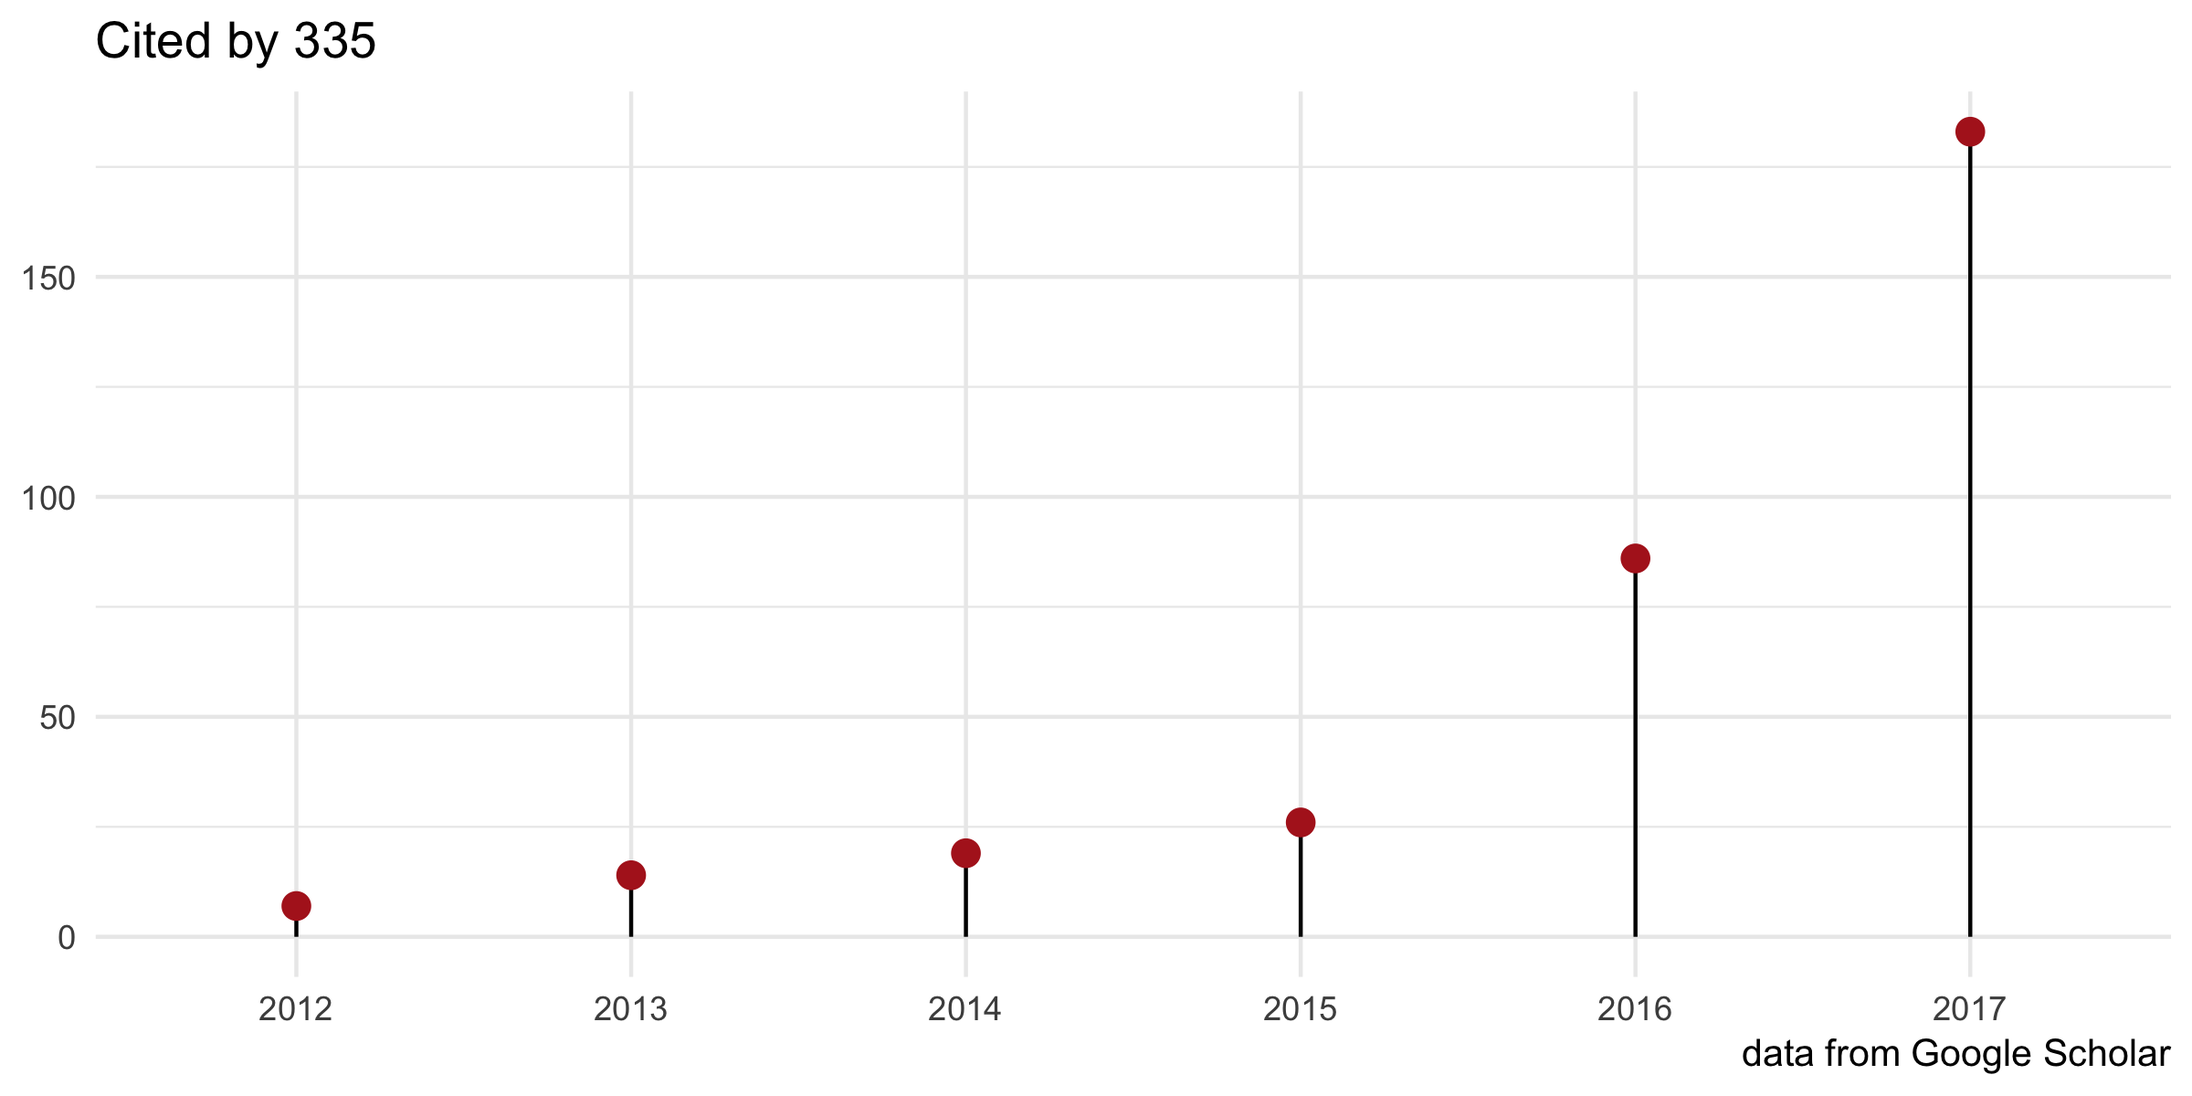
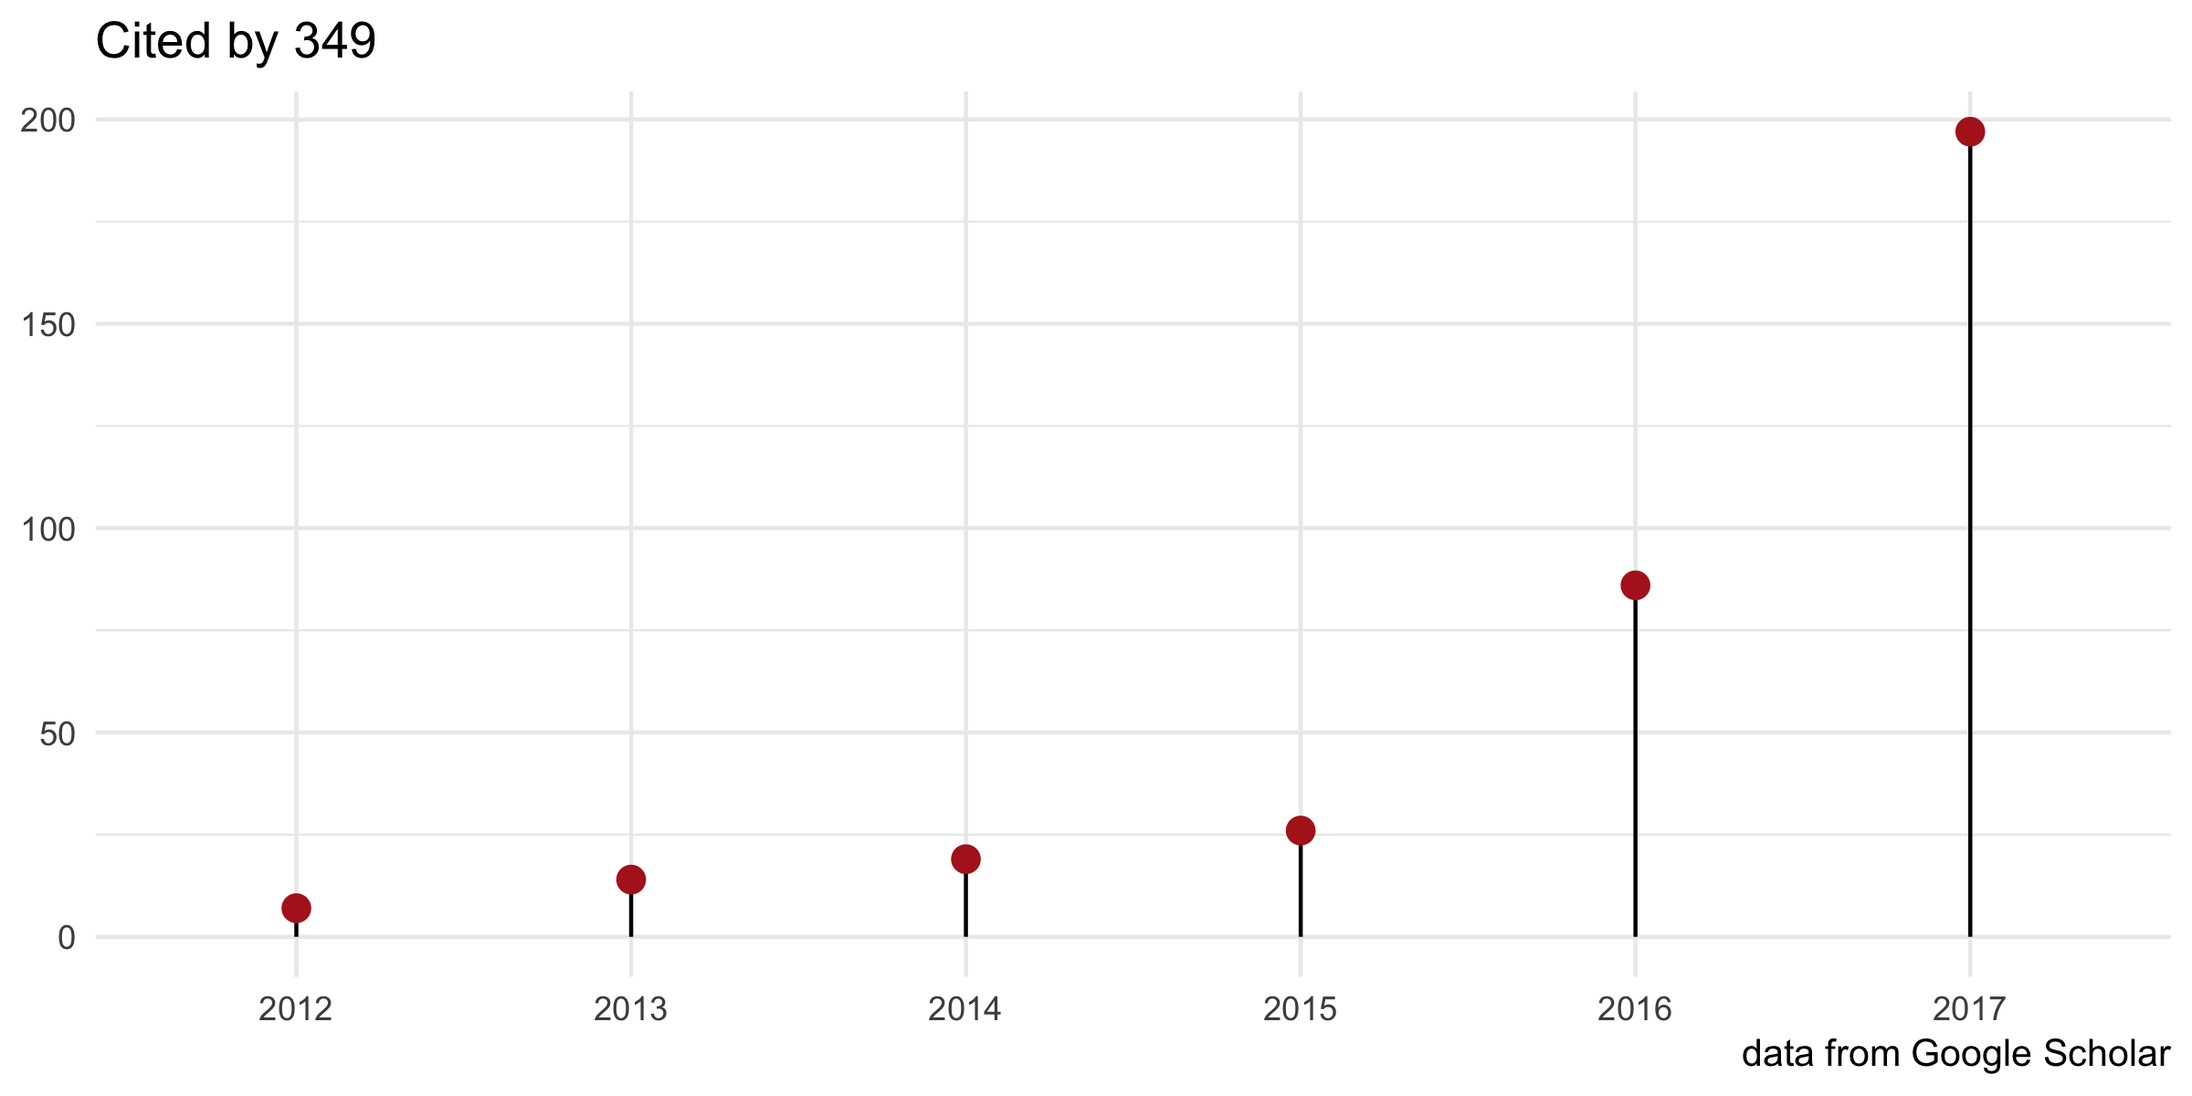
update docs

diff --git a/docs/index.html b/docs/index.html
@@ -9,7 +9,7 @@
     <meta charset="utf-8">
     <meta name="viewport" content="width=device-width,user-scalable=no,initial-scale=1,maximum-scale=1">
     <meta http-equiv="X-UA-Compatible" content="IE=10" />
-    <title>clusterProfiler: statistical analysis and visualization of functional profiles for genes and gene clusters - clusterProfiler</title>
+    <title>clusterProfiler</title>
     <meta name="generator" content="Hugo 0.30.2" />
 
     
@@ -69,6 +69,9 @@
     <script src="https://guangchuangyu.github.io/clusterProfiler/javascripts/modernizr.js"></script>
 
     
+    <link href="https://guangchuangyu.github.io/clusterProfiler/index.xml" rel="alternate" type="application/rss+xml" title="clusterProfiler" />
+    <link href="https://guangchuangyu.github.io/clusterProfiler/index.xml" rel="feed" type="application/rss+xml" title="clusterProfiler" />
+    
 
   </head>
   <body class="palette-primary-teal palette-accent-teal">
@@ -97,7 +100,7 @@
     </div>
     <div class="stretch">
       <div class="title">
-        clusterProfiler: statistical analysis and visualization of functional profiles for genes and gene clusters
+        clusterProfiler
       </div>
     </div>
 
@@ -284,11 +287,12 @@
 
 	<article class="article">
 		<div class="wrapper">
-			<h1>clusterProfiler: statistical analysis and visualization of functional profiles for genes and gene clusters </h1>
+			
+				<h1>clusterProfiler: statistical analysis and visualization of functional profiles for genes and gene clusters </h1>
 
-			<p><img src="https://raw.githubusercontent.com/Bioconductor/BiocStickers/master/clusterProfiler/clusterProfiler.png" height="200" align="right" /></p>
+				<p><img src="https://raw.githubusercontent.com/Bioconductor/BiocStickers/master/clusterProfiler/clusterProfiler.png" height="200" align="right" /></p>
 <p><link rel="stylesheet" href="https://guangchuangyu.github.io/css/font-awesome.min.css"></p>
-<p><a href="https://bioconductor.org/packages/clusterProfiler"><img src="https://img.shields.io/badge/release%20version-3.6.0-blue.svg?style=flat" alt="releaseVersion" /></a> <a href="https://github.com/guangchuangyu/clusterProfiler"><img src="https://img.shields.io/badge/devel%20version-3.7.0-blue.svg?style=flat" alt="develVersion" /></a> <a href="https://bioconductor.org/packages/stats/bioc/clusterProfiler"><img src="https://img.shields.io/badge/downloads-54967/total-blue.svg?style=flat" alt="total" /></a> <a href="https://bioconductor.org/packages/stats/bioc/clusterProfiler"><img src="https://img.shields.io/badge/downloads-2700/month-blue.svg?style=flat" alt="month" /></a></p>
+<p><a href="https://bioconductor.org/packages/clusterProfiler"><img src="https://img.shields.io/badge/release%20version-3.6.0-blue.svg?style=flat" alt="releaseVersion" /></a> <a href="https://github.com/guangchuangyu/clusterProfiler"><img src="https://img.shields.io/badge/devel%20version-3.7.0-blue.svg?style=flat" alt="develVersion" /></a> <a href="https://bioconductor.org/packages/stats/bioc/clusterProfiler"><img src="https://img.shields.io/badge/downloads-55794/total-blue.svg?style=flat" alt="total" /></a> <a href="https://bioconductor.org/packages/stats/bioc/clusterProfiler"><img src="https://img.shields.io/badge/downloads-2700/month-blue.svg?style=flat" alt="month" /></a></p>
 <p>The <a href="https://bioconductor.org/packages/clusterProfiler/">clusterProfiler</a> package implements methods to analyze and visualize functional profiles of genomic coordinates (supported by ChIPseeker), gene and gene clusters.</p>
 <p><a href="https://bioconductor.org/packages/clusterProfiler/">clusterProfiler</a> is released within the <a href="https://bioconductor.org/packages/clusterProfiler">Bioconductor</a> project and the source code is hosted on <a href="https://github.com/GuangchuangYu/clusterProfiler"><i class="fa fa-github fa-lg"></i> GitHub</a>.</p>
 <div id="author" class="section level2">
@@ -298,7 +302,7 @@
 <div id="citation" class="section level2">
 <h2><i class="fa fa-book"></i> Citation</h2>
 <p>Please cite the following article when using <a href="https://bioconductor.org/packages/clusterProfiler/">clusterProfiler</a>:</p>
-<p><a href="http://dx.doi.org/10.1089/omi.2011.0118"><img src="https://img.shields.io/badge/doi-10.1089/omi.2011.0118-blue.svg?style=flat" alt="doi" /></a> <a href="https://www.altmetric.com/details/681089"><img src="https://img.shields.io/badge/Altmetric-23-blue.svg?style=flat" alt="Altmetric" /></a> <a href="http://online.liebertpub.com/action/showMostCitedArticles?journalCode=omi"><img src="https://img.shields.io/badge/2nd%20most%20cited%20paper-in%20OMICS-blue.svg?style=flat" /></a> <a href="https://scholar.google.com.hk/scholar?oi=bibs&amp;hl=en&amp;cites=2349076811020942117"><img src="https://img.shields.io/badge/cited%20by-335-blue.svg?style=flat" alt="citation" /></a> <img src="https://img.shields.io/badge/ESI-Highly%20Cited%20Paper-blue.svg?style=flat" /></p>
+<p><a href="http://dx.doi.org/10.1089/omi.2011.0118"><img src="https://img.shields.io/badge/doi-10.1089/omi.2011.0118-blue.svg?style=flat" alt="doi" /></a> <a href="https://www.altmetric.com/details/681089"><img src="https://img.shields.io/badge/Altmetric-23-blue.svg?style=flat" alt="Altmetric" /></a> <a href="http://online.liebertpub.com/action/showMostCitedArticles?journalCode=omi"><img src="https://img.shields.io/badge/2nd%20most%20cited%20paper-in%20OMICS-blue.svg?style=flat" /></a> <a href="https://scholar.google.com.hk/scholar?oi=bibs&amp;hl=en&amp;cites=2349076811020942117"><img src="https://img.shields.io/badge/cited%20by-349-blue.svg?style=flat" alt="citation" /></a> <img src="https://img.shields.io/badge/ESI-Highly%20Cited%20Paper-blue.svg?style=flat" /></p>
 <p><strong>Yu G</strong>, Wang L, Han Y and He Q<sup>*</sup>. clusterProfiler: an R package for comparing biological themes among gene clusters. <strong><em>OMICS: A Journal of Integrative Biology</em></strong>. 2012, 16(5):284-287.</p>
 </div>
 <div id="featured-articles" class="section level2">
@@ -442,6 +446,7 @@ biocLite(&quot;clusterProfiler&quot;)</code></pre>
 </ul>
 </div>
 
+			
 
 			<aside class="copyright" role="note">
 				
@@ -456,13 +461,16 @@ biocLite(&quot;clusterProfiler&quot;)</code></pre>
 			<footer class="footer">
 				
 
+
+
 <nav class="pagination" aria-label="Footer">
   <div class="previous">
-  
   </div>
 
-  <div class="next">
   
+  
+
+  <div class="next">
       <a href="https://guangchuangyu.github.io/clusterProfiler/documentation/" title="Documentation">
         <span class="direction">
           Next
@@ -478,11 +486,8 @@ biocLite(&quot;clusterProfiler&quot;)</code></pre>
           </div>
         </div>
       </a>
-  
   </div>
 </nav>
-
-
 
 
 

diff --git a/site_src/content/index.html b/site_src/content/index.html
@@ -9,7 +9,7 @@ weight: 1
 
 <p><img src="https://raw.githubusercontent.com/Bioconductor/BiocStickers/master/clusterProfiler/clusterProfiler.png" height="200" align="right" /></p>
 <p><link rel="stylesheet" href="https://guangchuangyu.github.io/css/font-awesome.min.css"></p>
-<p><a href="https://bioconductor.org/packages/clusterProfiler"><img src="https://img.shields.io/badge/release%20version-3.6.0-blue.svg?style=flat" alt="releaseVersion" /></a> <a href="https://github.com/guangchuangyu/clusterProfiler"><img src="https://img.shields.io/badge/devel%20version-3.7.0-blue.svg?style=flat" alt="develVersion" /></a> <a href="https://bioconductor.org/packages/stats/bioc/clusterProfiler"><img src="https://img.shields.io/badge/downloads-54967/total-blue.svg?style=flat" alt="total" /></a> <a href="https://bioconductor.org/packages/stats/bioc/clusterProfiler"><img src="https://img.shields.io/badge/downloads-2700/month-blue.svg?style=flat" alt="month" /></a></p>
+<p><a href="https://bioconductor.org/packages/clusterProfiler"><img src="https://img.shields.io/badge/release%20version-3.6.0-blue.svg?style=flat" alt="releaseVersion" /></a> <a href="https://github.com/guangchuangyu/clusterProfiler"><img src="https://img.shields.io/badge/devel%20version-3.7.0-blue.svg?style=flat" alt="develVersion" /></a> <a href="https://bioconductor.org/packages/stats/bioc/clusterProfiler"><img src="https://img.shields.io/badge/downloads-55794/total-blue.svg?style=flat" alt="total" /></a> <a href="https://bioconductor.org/packages/stats/bioc/clusterProfiler"><img src="https://img.shields.io/badge/downloads-2700/month-blue.svg?style=flat" alt="month" /></a></p>
 <p>The <a href="https://bioconductor.org/packages/clusterProfiler/">clusterProfiler</a> package implements methods to analyze and visualize functional profiles of genomic coordinates (supported by ChIPseeker), gene and gene clusters.</p>
 <p><a href="https://bioconductor.org/packages/clusterProfiler/">clusterProfiler</a> is released within the <a href="https://bioconductor.org/packages/clusterProfiler">Bioconductor</a> project and the source code is hosted on <a href="https://github.com/GuangchuangYu/clusterProfiler"><i class="fa fa-github fa-lg"></i> GitHub</a>.</p>
 <div id="author" class="section level2">
@@ -19,7 +19,7 @@ weight: 1
 <div id="citation" class="section level2">
 <h2><i class="fa fa-book"></i> Citation</h2>
 <p>Please cite the following article when using <a href="https://bioconductor.org/packages/clusterProfiler/">clusterProfiler</a>:</p>
-<p><a href="http://dx.doi.org/10.1089/omi.2011.0118"><img src="https://img.shields.io/badge/doi-10.1089/omi.2011.0118-blue.svg?style=flat" alt="doi" /></a> <a href="https://www.altmetric.com/details/681089"><img src="https://img.shields.io/badge/Altmetric-23-blue.svg?style=flat" alt="Altmetric" /></a> <a href="http://online.liebertpub.com/action/showMostCitedArticles?journalCode=omi"><img src="https://img.shields.io/badge/2nd%20most%20cited%20paper-in%20OMICS-blue.svg?style=flat" /></a> <a href="https://scholar.google.com.hk/scholar?oi=bibs&amp;hl=en&amp;cites=2349076811020942117"><img src="https://img.shields.io/badge/cited%20by-335-blue.svg?style=flat" alt="citation" /></a> <img src="https://img.shields.io/badge/ESI-Highly%20Cited%20Paper-blue.svg?style=flat" /></p>
+<p><a href="http://dx.doi.org/10.1089/omi.2011.0118"><img src="https://img.shields.io/badge/doi-10.1089/omi.2011.0118-blue.svg?style=flat" alt="doi" /></a> <a href="https://www.altmetric.com/details/681089"><img src="https://img.shields.io/badge/Altmetric-23-blue.svg?style=flat" alt="Altmetric" /></a> <a href="http://online.liebertpub.com/action/showMostCitedArticles?journalCode=omi"><img src="https://img.shields.io/badge/2nd%20most%20cited%20paper-in%20OMICS-blue.svg?style=flat" /></a> <a href="https://scholar.google.com.hk/scholar?oi=bibs&amp;hl=en&amp;cites=2349076811020942117"><img src="https://img.shields.io/badge/cited%20by-349-blue.svg?style=flat" alt="citation" /></a> <img src="https://img.shields.io/badge/ESI-Highly%20Cited%20Paper-blue.svg?style=flat" /></p>
 <p><strong>Yu G</strong>, Wang L, Han Y and He Q<sup>*</sup>. clusterProfiler: an R package for comparing biological themes among gene clusters. <strong><em>OMICS: A Journal of Integrative Biology</em></strong>. 2012, 16(5):284-287.</p>
 </div>
 <div id="featured-articles" class="section level2">

diff --git a/site_src/content/featured-articles/index.html b/site_src/content/featured-articles/index.html
@@ -11,6 +11,8 @@ weight: 20
 <p><img src="../images/citation.png" width="880"/></p>
 <div id="section" class="section level2">
 <h2><i class="fa fa-calendar"></i> 2017</h2>
+<p><a href="http://dx.doi.org/10.1038/s41467-017-02185-w">EGFR feedback-inhibition by Ran-binding protein 6 is disrupted in cancer</a> <strong><em>Nature Communications</em></strong>.</p>
+<p><a href="http://dx.doi.org/10.1101/gr.224386.117">The landscape of miRNA editing in animals and its impact on miRNA biogenesis and targeting</a>. <strong><em>Genome Research</em></strong>.</p>
 <p><a href="https://link.springer.com/article/10.1038/s41593-017-0025-9">Proteomic analysis of postsynaptic proteins in regions of the human neocortex</a>.</p>
 <p><a href="http://dx.doi.org/10.1038/s41588-017-0001-z">Mutant-IDH1-dependent chromatin state reprogramming, reversibility, and persistence</a>. <strong><em>Nature Genetics</em></strong>. 2017.</p>
 <p><a href="http://dx.doi.org/10.1073/pnas.1710374114">FMRFamide-like peptides expand the behavioral repertoire of a densely connected nervous system</a>. <strong><em>PNAS</em></strong>. 2017.</p>

diff --git a/docs/featured-articles/index.html b/docs/featured-articles/index.html
@@ -294,6 +294,8 @@
 <p><img src="../images/citation.png" width="880"/></p>
 <div id="section" class="section level2">
 <h2><i class="fa fa-calendar"></i> 2017</h2>
+<p><a href="http://dx.doi.org/10.1038/s41467-017-02185-w">EGFR feedback-inhibition by Ran-binding protein 6 is disrupted in cancer</a> <strong><em>Nature Communications</em></strong>.</p>
+<p><a href="http://dx.doi.org/10.1101/gr.224386.117">The landscape of miRNA editing in animals and its impact on miRNA biogenesis and targeting</a>. <strong><em>Genome Research</em></strong>.</p>
 <p><a href="https://link.springer.com/article/10.1038/s41593-017-0025-9">Proteomic analysis of postsynaptic proteins in regions of the human neocortex</a>.</p>
 <p><a href="http://dx.doi.org/10.1038/s41588-017-0001-z">Mutant-IDH1-dependent chromatin state reprogramming, reversibility, and persistence</a>. <strong><em>Nature Genetics</em></strong>. 2017.</p>
 <p><a href="http://dx.doi.org/10.1073/pnas.1710374114">FMRFamide-like peptides expand the behavioral repertoire of a densely connected nervous system</a>. <strong><em>PNAS</em></strong>. 2017.</p>

diff --git a/README.md b/README.md
@@ -3,9 +3,9 @@ clusterProfiler
 
 <img src="https://raw.githubusercontent.com/Bioconductor/BiocStickers/master/clusterProfiler/clusterProfiler.png" height="200" align="right" />
 
-[![releaseVersion](https://img.shields.io/badge/release%20version-3.6.0-green.svg?style=flat)](https://bioconductor.org/packages/clusterProfiler) [![develVersion](https://img.shields.io/badge/devel%20version-3.7.0-green.svg?style=flat)](https://github.com/guangchuangyu/clusterProfiler) [![Bioc](http://www.bioconductor.org/shields/years-in-bioc/clusterProfiler.svg)](https://www.bioconductor.org/packages/devel/bioc/html/clusterProfiler.html#since) [![total](https://img.shields.io/badge/downloads-54967/total-blue.svg?style=flat)](https://bioconductor.org/packages/stats/bioc/clusterProfiler) [![month](https://img.shields.io/badge/downloads-2700/month-blue.svg?style=flat)](https://bioconductor.org/packages/stats/bioc/clusterProfiler)
+[![releaseVersion](https://img.shields.io/badge/release%20version-3.6.0-green.svg?style=flat)](https://bioconductor.org/packages/clusterProfiler) [![develVersion](https://img.shields.io/badge/devel%20version-3.7.0-green.svg?style=flat)](https://github.com/guangchuangyu/clusterProfiler) [![Bioc](http://www.bioconductor.org/shields/years-in-bioc/clusterProfiler.svg)](https://www.bioconductor.org/packages/devel/bioc/html/clusterProfiler.html#since) [![total](https://img.shields.io/badge/downloads-55794/total-blue.svg?style=flat)](https://bioconductor.org/packages/stats/bioc/clusterProfiler) [![month](https://img.shields.io/badge/downloads-2700/month-blue.svg?style=flat)](https://bioconductor.org/packages/stats/bioc/clusterProfiler)
 
-[![Project Status: Active - The project has reached a stable, usable state and is being actively developed.](http://www.repostatus.org/badges/latest/active.svg)](http://www.repostatus.org/#active) [![codecov](https://codecov.io/gh/GuangchuangYu/clusterProfiler/branch/master/graph/badge.svg)](https://codecov.io/gh/GuangchuangYu/clusterProfiler/) [![Last-changedate](https://img.shields.io/badge/last%20change-2017--12--11-green.svg)](https://github.com/GuangchuangYu/clusterProfiler/commits/master) [![commit](http://www.bioconductor.org/shields/commits/bioc/clusterProfiler.svg)](https://www.bioconductor.org/packages/devel/bioc/html/clusterProfiler.html#svn_source) [![GitHub forks](https://img.shields.io/github/forks/GuangchuangYu/clusterProfiler.svg)](https://github.com/GuangchuangYu/clusterProfiler/network) [![GitHub stars](https://img.shields.io/github/stars/GuangchuangYu/clusterProfiler.svg)](https://github.com/GuangchuangYu/clusterProfiler/stargazers)
+[![Project Status: Active - The project has reached a stable, usable state and is being actively developed.](http://www.repostatus.org/badges/latest/active.svg)](http://www.repostatus.org/#active) [![codecov](https://codecov.io/gh/GuangchuangYu/clusterProfiler/branch/master/graph/badge.svg)](https://codecov.io/gh/GuangchuangYu/clusterProfiler/) [![Last-changedate](https://img.shields.io/badge/last%20change-2017--12--20-green.svg)](https://github.com/GuangchuangYu/clusterProfiler/commits/master) [![commit](http://www.bioconductor.org/shields/commits/bioc/clusterProfiler.svg)](https://www.bioconductor.org/packages/devel/bioc/html/clusterProfiler.html#svn_source) [![GitHub forks](https://img.shields.io/github/forks/GuangchuangYu/clusterProfiler.svg)](https://github.com/GuangchuangYu/clusterProfiler/network) [![GitHub stars](https://img.shields.io/github/stars/GuangchuangYu/clusterProfiler.svg)](https://github.com/GuangchuangYu/clusterProfiler/stargazers)
 
 [![platform](http://www.bioconductor.org/shields/availability/devel/clusterProfiler.svg)](https://www.bioconductor.org/packages/devel/bioc/html/clusterProfiler.html#archives) [![Build Status](http://www.bioconductor.org/shields/build/devel/bioc/clusterProfiler.svg)](https://bioconductor.org/checkResults/devel/bioc-LATEST/clusterProfiler/) [![Linux/Mac Travis Build Status](https://img.shields.io/travis/GuangchuangYu/clusterProfiler/master.svg?label=Mac%20OSX%20%26%20Linux)](https://travis-ci.org/GuangchuangYu/clusterProfiler) [![AppVeyor Build Status](https://img.shields.io/appveyor/ci/Guangchuangyu/clusterProfiler/master.svg?label=Windows)](https://ci.appveyor.com/project/GuangchuangYu/clusterProfiler)
 
@@ -31,12 +31,12 @@ Please cite the following article when using `clusterProfiler`:
 
 ### Citation
 
-[![](https://img.shields.io/badge/2nd%20most%20cited%20paper-in%20OMICS-green.svg?style=flat)](http://online.liebertpub.com/action/showMostCitedArticles?journalCode=omi) [![citation](https://img.shields.io/badge/cited%20by-335-green.svg?style=flat)](https://scholar.google.com.hk/scholar?oi=bibs&hl=en&cites=2349076811020942117) ![](https://img.shields.io/badge/ESI-Highly%20Cited%20Paper-green.svg?style=flat)
+[![](https://img.shields.io/badge/2nd%20most%20cited%20paper-in%20OMICS-green.svg?style=flat)](http://online.liebertpub.com/action/showMostCitedArticles?journalCode=omi) [![citation](https://img.shields.io/badge/cited%20by-349-green.svg?style=flat)](https://scholar.google.com.hk/scholar?oi=bibs&hl=en&cites=2349076811020942117) ![](https://img.shields.io/badge/ESI-Highly%20Cited%20Paper-green.svg?style=flat)
 
 <img src="docs/images/citation.png" width="890"/>
 
 ### Download stats
 
-[![download](http://www.bioconductor.org/shields/downloads/clusterProfiler.svg)](https://bioconductor.org/packages/stats/bioc/clusterProfiler) [![total](https://img.shields.io/badge/downloads-54967/total-blue.svg?style=flat)](https://bioconductor.org/packages/stats/bioc/clusterProfiler) [![month](https://img.shields.io/badge/downloads-2700/month-blue.svg?style=flat)](https://bioconductor.org/packages/stats/bioc/clusterProfiler)
+[![download](http://www.bioconductor.org/shields/downloads/clusterProfiler.svg)](https://bioconductor.org/packages/stats/bioc/clusterProfiler) [![total](https://img.shields.io/badge/downloads-55794/total-blue.svg?style=flat)](https://bioconductor.org/packages/stats/bioc/clusterProfiler) [![month](https://img.shields.io/badge/downloads-2700/month-blue.svg?style=flat)](https://bioconductor.org/packages/stats/bioc/clusterProfiler)
 
 <img src="docs/images/dlstats.png" width="890"/>
